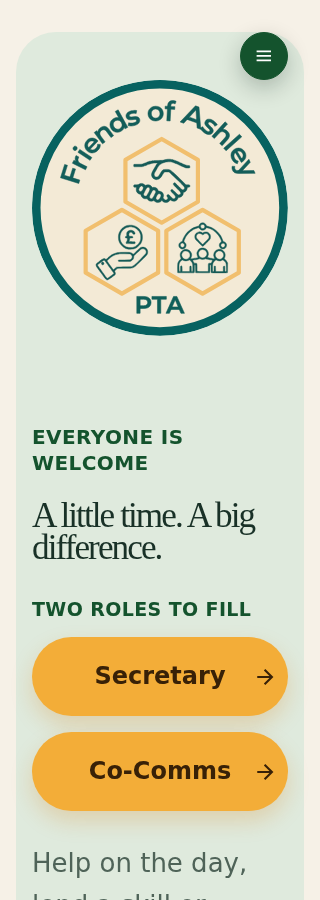
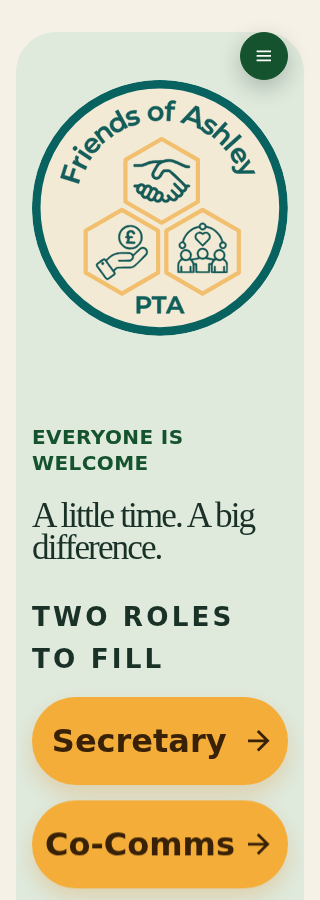
[CF-Pages-Skip] Reserve enlarged label and arrow columns without shrinking text

Changed region(s): [[0.0938, 0.6533, 0.9062, 1.0]]

diff --git a/tests/e2e/involved-vacancies.spec.ts b/tests/e2e/involved-vacancies.spec.ts
@@ -36,14 +36,19 @@ for (const width of [320, 390, 430]) {
 
 for (const width of [320, 390, 430, 768, 1440]) {
   for (const colorScheme of ['light', 'dark'] as const) {
-    test(`vacancy labels stay whole at 200% ${width} ${colorScheme}`, async ({ page }) => {
+    for (const method of ['root', 'per-element']) test(`vacancy labels stay whole at 200% ${width} ${colorScheme} ${method}`, async ({ page }) => {
       await page.setViewportSize({ width, height: 900 });
       await page.emulateMedia({ colorScheme });
       await page.goto('/get-involved/');
-      await page.evaluate(async () => {
-        document.documentElement.style.fontSize = '200%';
+      await page.evaluate(async (method) => {
+        if (method === 'root') document.documentElement.style.fontSize = '200%';
+        else {
+          const elements = [...document.querySelectorAll<HTMLElement>('body *')];
+          const sizes = elements.map(el => parseFloat(getComputedStyle(el).fontSize));
+          elements.forEach((el, i) => el.style.setProperty('font-size', `${sizes[i] * 2}px`, 'important'));
+        }
         await document.fonts.ready;
-      });
+      }, method);
       const labels = page.locator('.involved-vacancies .cta-label');
       expect(await labels.evaluateAll(elements => elements.flatMap(el => {
         const node = el.firstChild!;
@@ -56,6 +61,17 @@ for (const width of [320, 390, 430, 768, 1440]) {
           return new Set([...range.getClientRects()].map(r => Math.round(r.top))).size > 1;
         }).map(word => word[0]);
       }))).toEqual([]);
+      for (const label of await labels.all()) {
+        const geometry = await label.evaluate(el => {
+          const range = document.createRange(); range.selectNode(el.firstChild!);
+          const text = range.getBoundingClientRect();
+          const icon = el.querySelector('svg')!.getBoundingClientRect();
+          const pill = el.closest('a')!.getBoundingClientRect();
+          return { textRight: text.right, iconLeft: icon.left, iconRight: icon.right, pillRight: pill.right };
+        });
+        expect(geometry.textRight).toBeLessThanOrEqual(geometry.iconLeft - 1);
+        expect(geometry.iconRight).toBeLessThanOrEqual(geometry.pillRight);
+      }
       expect(await page.evaluate(() => document.documentElement.scrollWidth - innerWidth)).toBeLessThanOrEqual(1);
     });
   }
